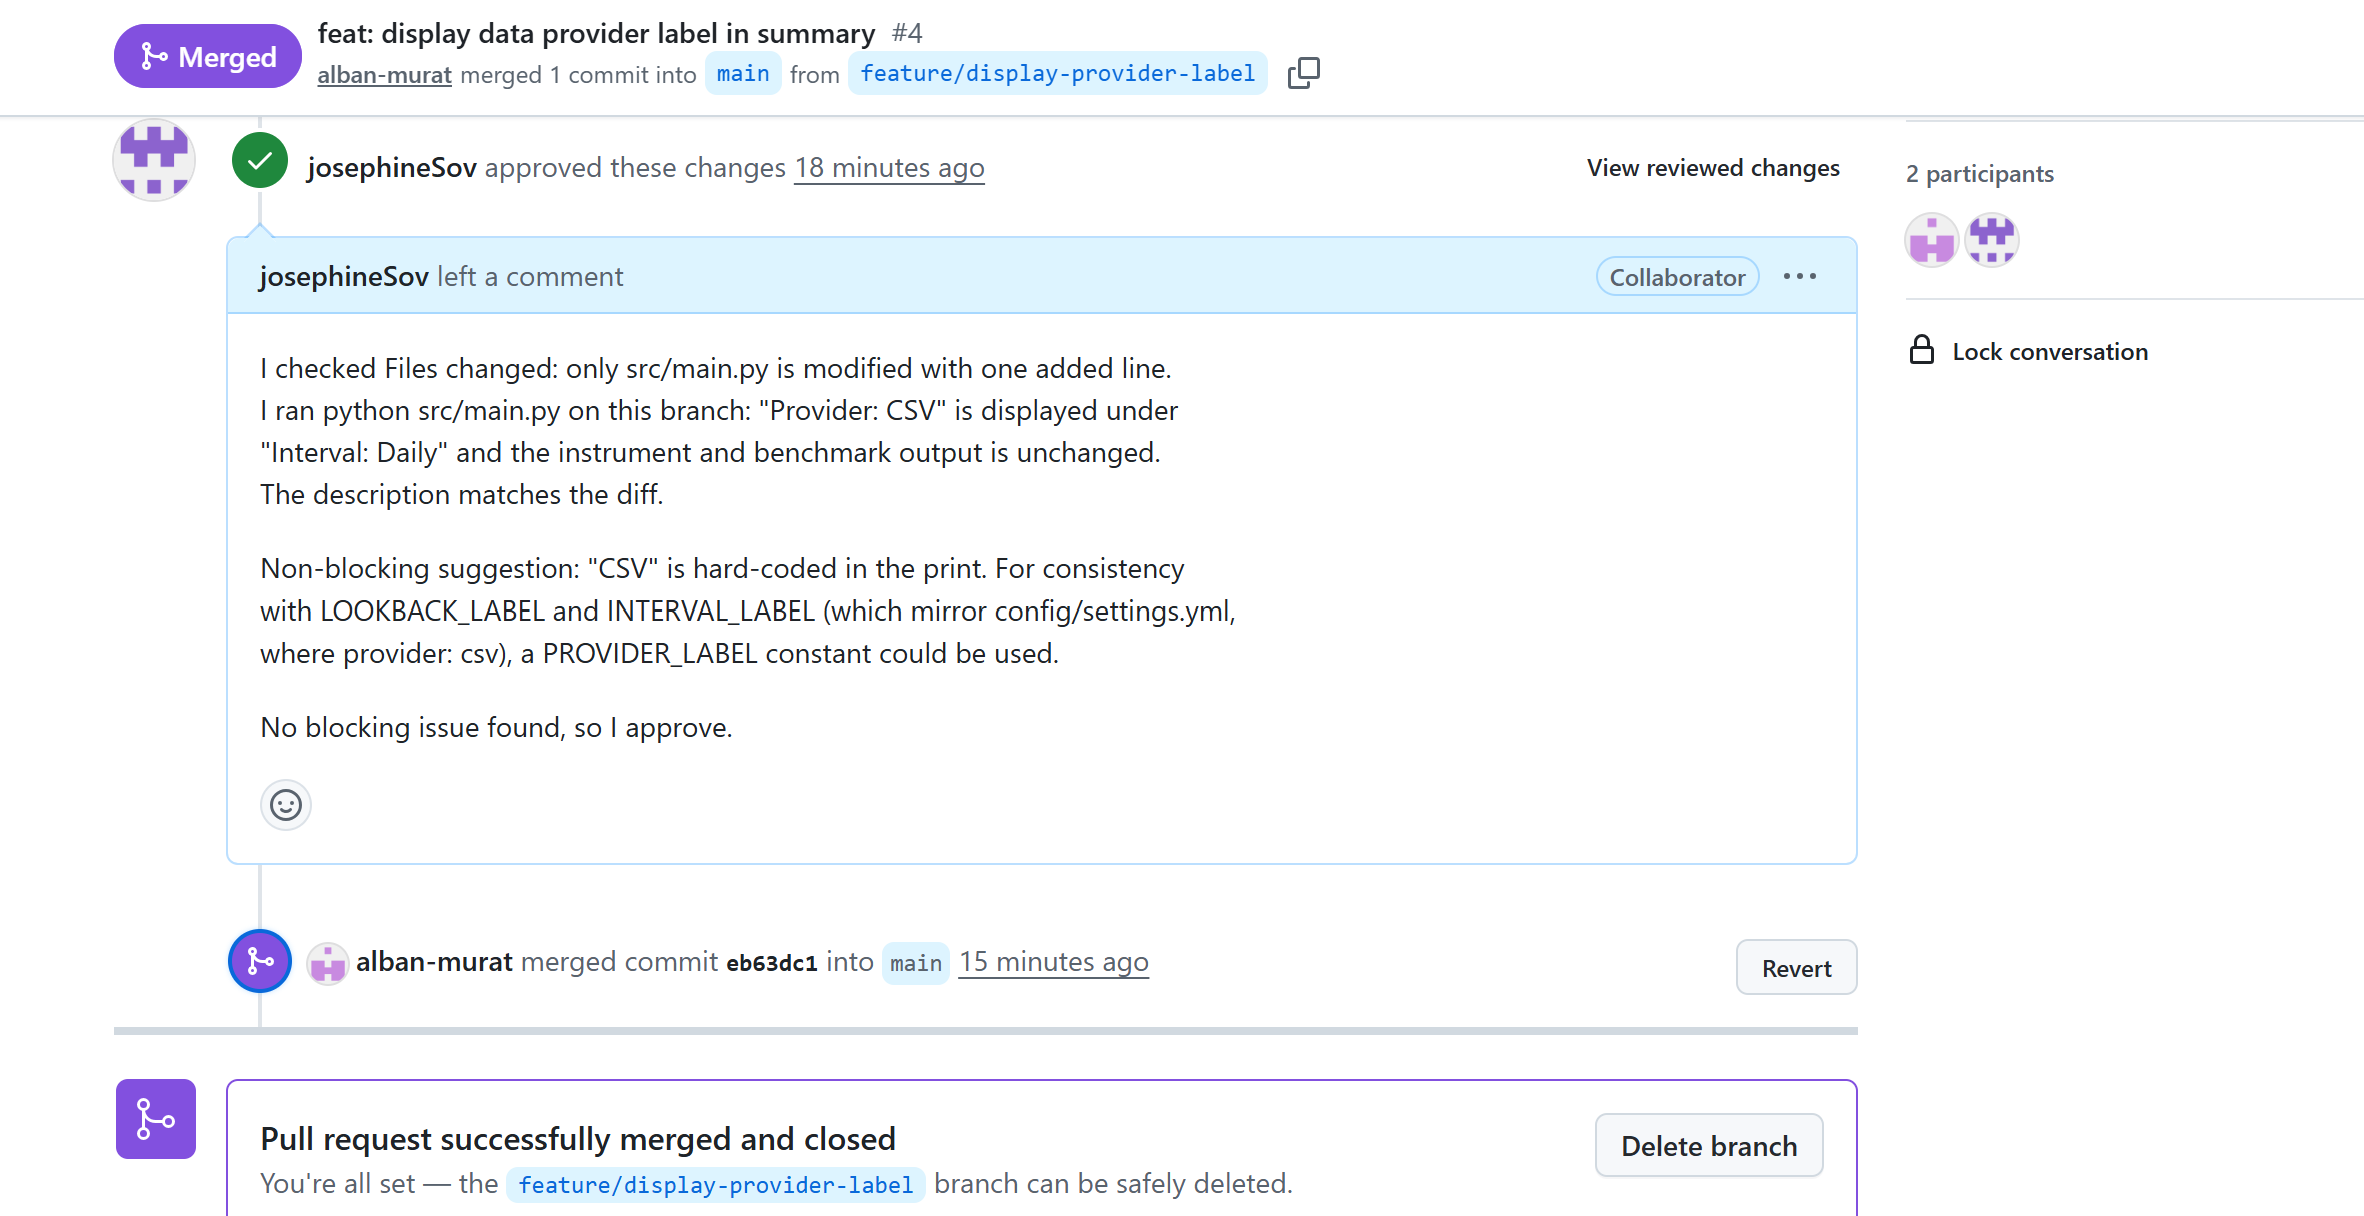
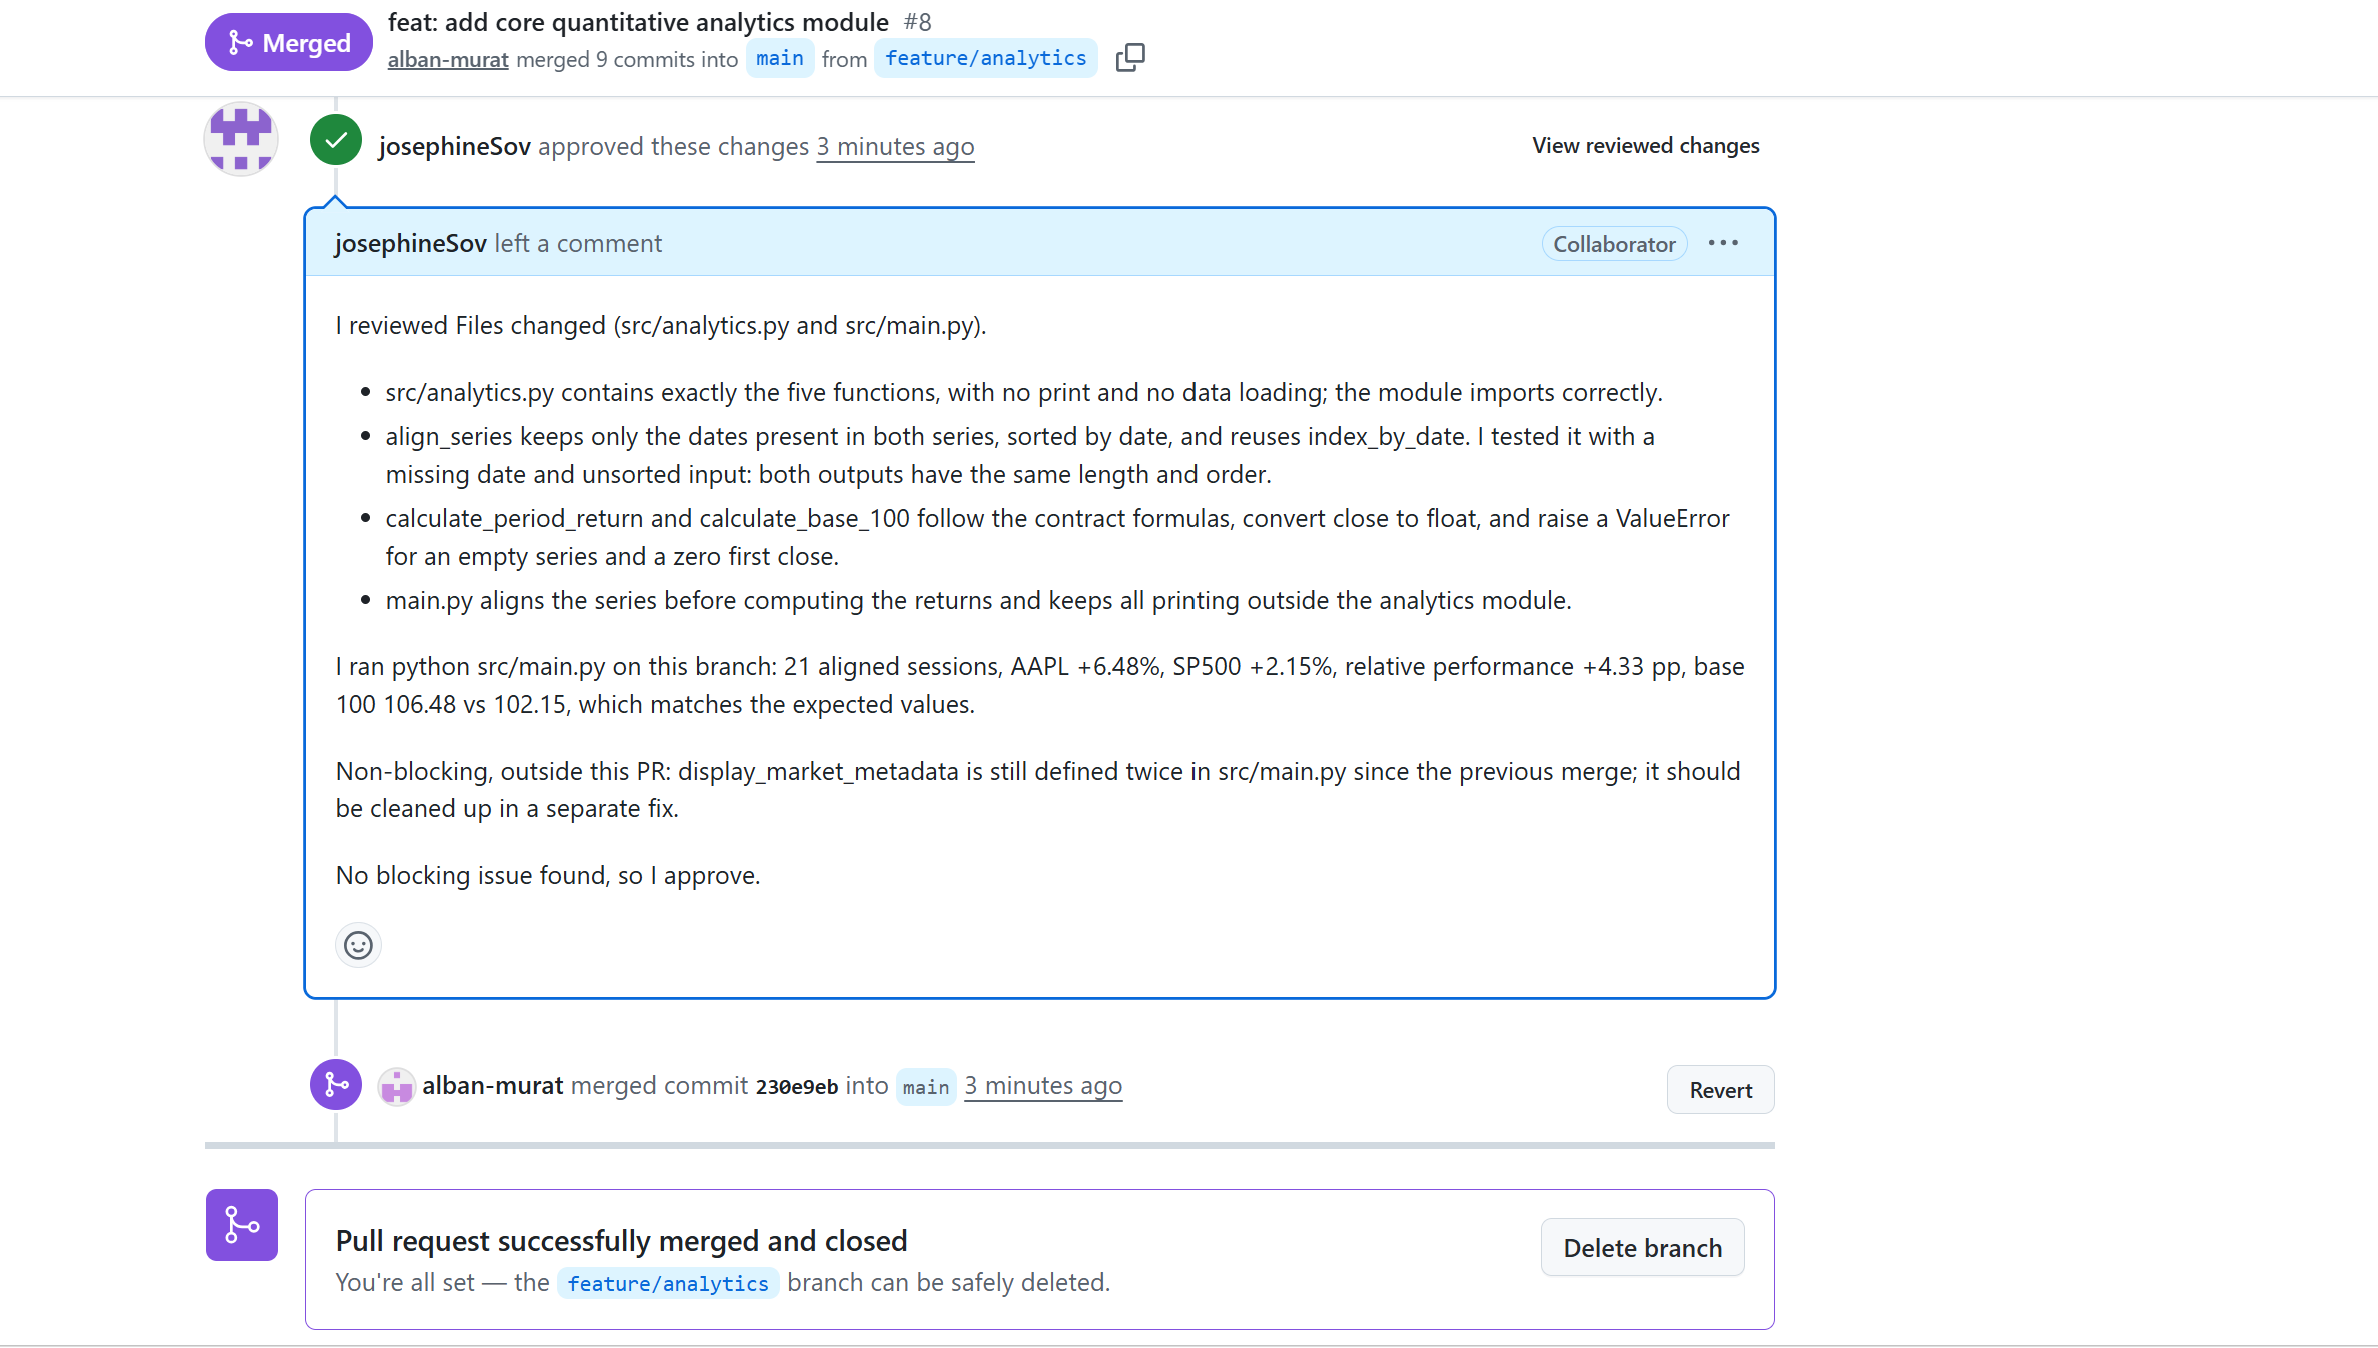
docs: add TD07 evidence to checkpoint B

diff --git a/evidence/checkpoint-b/josephineSov/README.md b/evidence/checkpoint-b/josephineSov/README.md
@@ -11,8 +11,10 @@ Checkpoint B est clôturé après le TD08. Ce dossier est complété au fil des 
 | Fichier | TD | Contenu |
 |---|---|---|
 | `01_pull_request.png` | TD05 | PR #5 `feat: display market metadata` : `main` ← `feature/display-market-metadata`, autrice josephineSov, description What changed / Why / Validation |
-| `02_code_review.png` | TD06 | ma revue de la PR #4 d'alban-murat (`feat: display data provider label in summary`) : commentaire technique et **Approve** |
+| `02_code_review.png` | TD07 | ma revue (relectrice officielle, Student 2) de la PR #8 `feat: add core quantitative analytics module` d'alban-murat : vérifications détaillées et **Approve**, PR fusionnée après la revue |
+| `02_code_review_pr4.png` | TD06 | ma revue de la PR #4 d'alban-murat (`feat: display data provider label in summary`) : commentaire technique et **Approve** |
 | `pr5_review_merged.png` | TD06 | ma PR #5 relue et approuvée par PAULCO6, puis fusionnée dans `main` après la revue |
+| `td07_comparison_run.png` | TD07 | `python src/main.py` sur `main` après le merge : bloc de comparaison et base 100 |
 
 ## TD05 – Remote branch + Pull Request
 
@@ -26,3 +28,12 @@ Checkpoint B est clôturé après le TD08. Ce dossier est complété au fil des 
 - Revue de la PR #4 : Files changed vérifié (1 ligne dans `src/main.py`), exécution de `python src/main.py` sur la branche, description cohérente avec le diff. Suggestion non bloquante : utiliser une constante `PROVIDER_LABEL` plutôt que `"CSV"` en dur. Résultat : **Approve**.
 - Ma PR #5 a été approuvée par PAULCO6 sans correction demandée, donc aucun commit de correction. Fusionnée après la revue.
 - `main` local synchronisé avec `git switch main` puis `git pull`, et `python src/main.py` fonctionne.
+
+## TD07 – Data normalization + comparison
+
+- Rôle : Student 2. J'ai codé `index_by_date` et `calculate_relative_performance` dans `src/analytics.py`, sur la branche commune `feature/analytics` :
+  - `7ed7509 feat(analytics): implement index_by_date`
+  - `09ee508 feat(analytics): implement calculate_relative_performance`
+- Relectrice officielle de la PR #8 : vérification des 5 fonctions, de la pureté du module (pas de `print`, pas de chargement de données), des formules, des cas limites (série vide, premier close à 0), de l'alignement et des valeurs attendues. **Approve**, puis merge par le Lead.
+- `main` local synchronisé (`git switch main`, `git pull origin main`), branche locale `feature/analytics` supprimée avec `git branch -d`.
+- Résultat de `python src/main.py` : 21 séances alignées, AAPL +6.48 %, SP500 +2.15 %, performance relative +4.33 points, base 100 : 106.48 contre 102.15.
